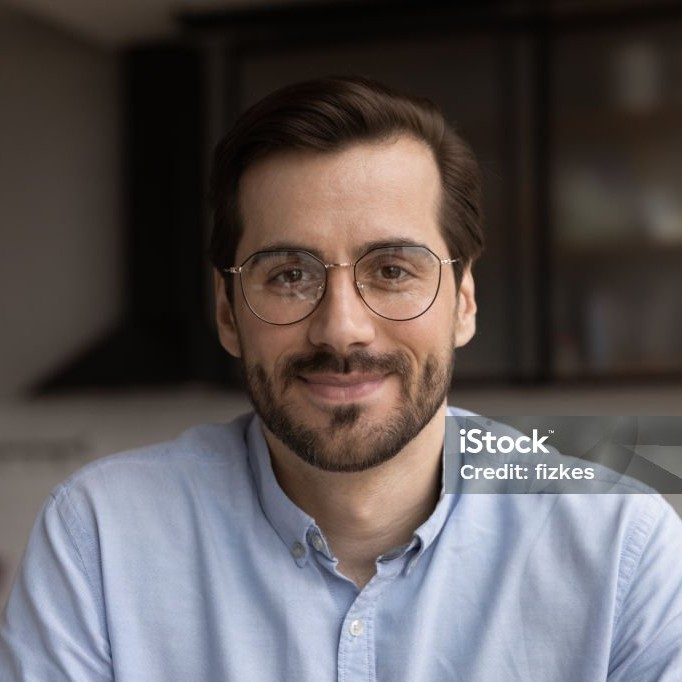
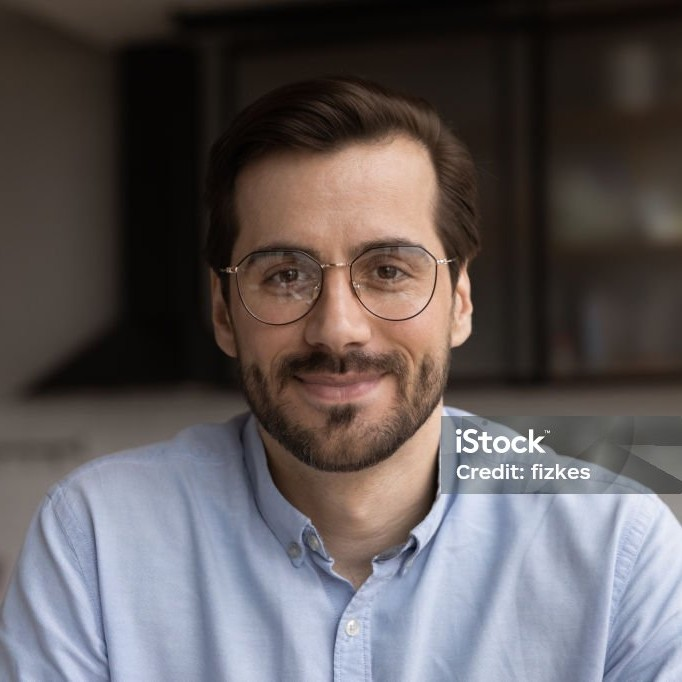
Fit image's aspect ratio in mobile view.

diff --git a/index.html b/index.html
@@ -13,7 +13,7 @@
     <body>
         <header>
             <picture id="profile-pic">
-                <source media="(max-width: 700px)" srcset="assets/images/rectangulo-vertical.jpg" width="300" height="400">
+                <source media="(max-width: 700px)" srcset="assets/images/vertical.jpg" width="300" height="400">
                 <source media="(max-width: 1200px)" srcset="assets/images/cuadrado.jpg" width="400" height="400">
                 <img src="assets/images/cuadrado.jpg" width="500" height="500">
             </picture>
@@ -110,8 +110,8 @@
                 </nav>
             </div>
             <picture id="second-pic">
-                <source media="(max-width: 1200px)" srcset="assets/images/rectangulo-vertical.jpg" width="350" height="400">
-                <img src="assets/images/rectangulo-horizontal.jpg" width="800" height="500">
+                <source media="(max-width: 1200px)" srcset="assets/images/vertical.jpg" width="300" height="400">
+                <img src="assets/images/horizontal.jpg" width="750" height="500">
             </picture>
         </footer>
     </body>

diff --git a/style.css b/style.css
@@ -193,7 +193,7 @@ footer {
 }
 
 #second-pic {
-    flex: 0 2 800px;
+    flex: 0 2 750px;
     height: 500px;
 }
 
@@ -226,7 +226,7 @@ footer {
     }
 
     #second-pic {
-        max-width: 350px;
+        max-width: 300px;
         height: 400px;
     }
 }
